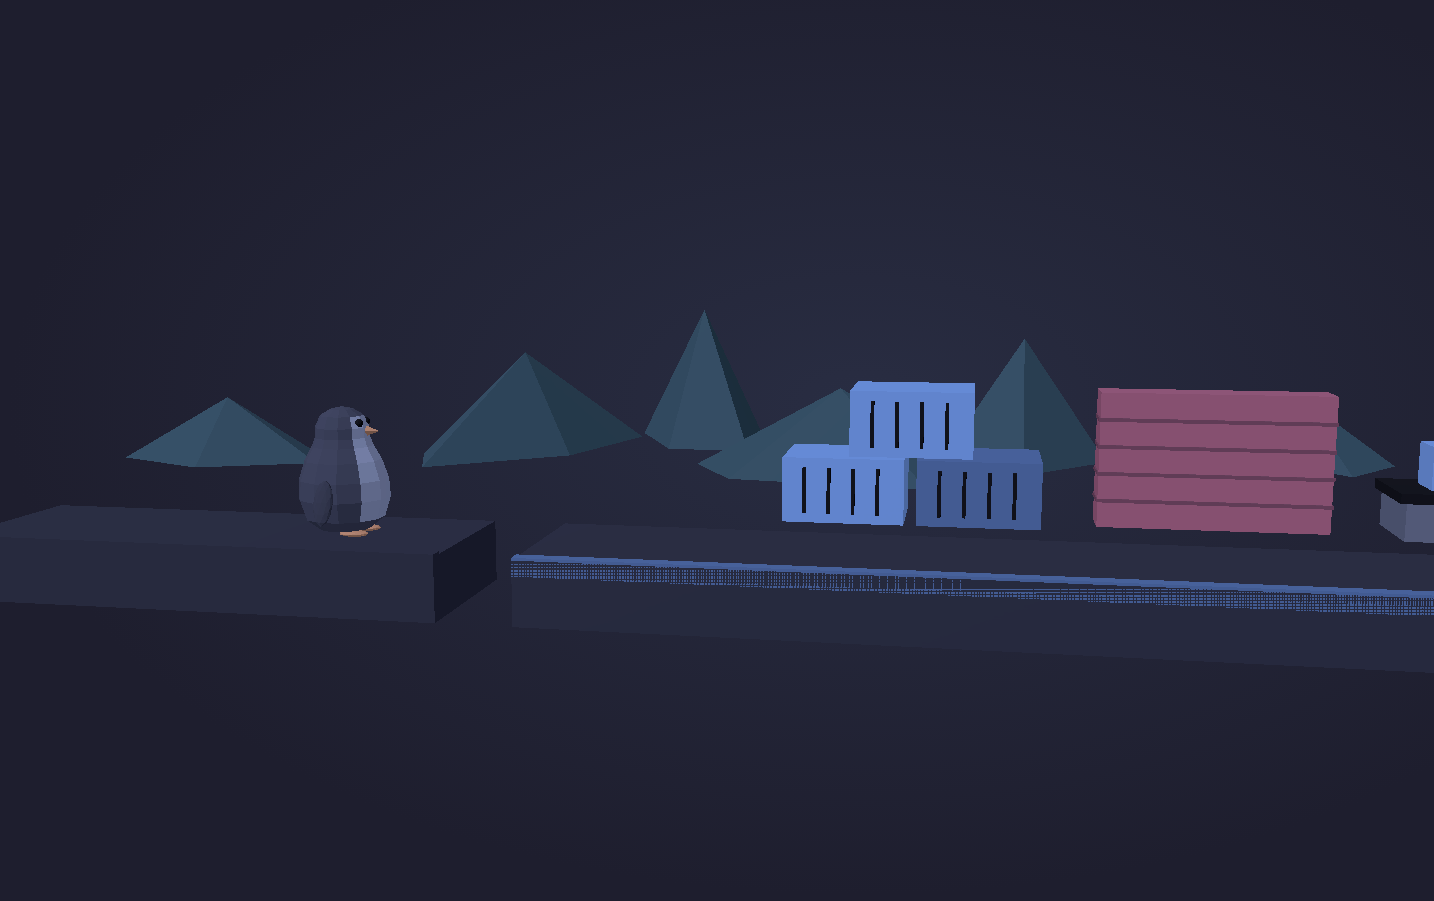
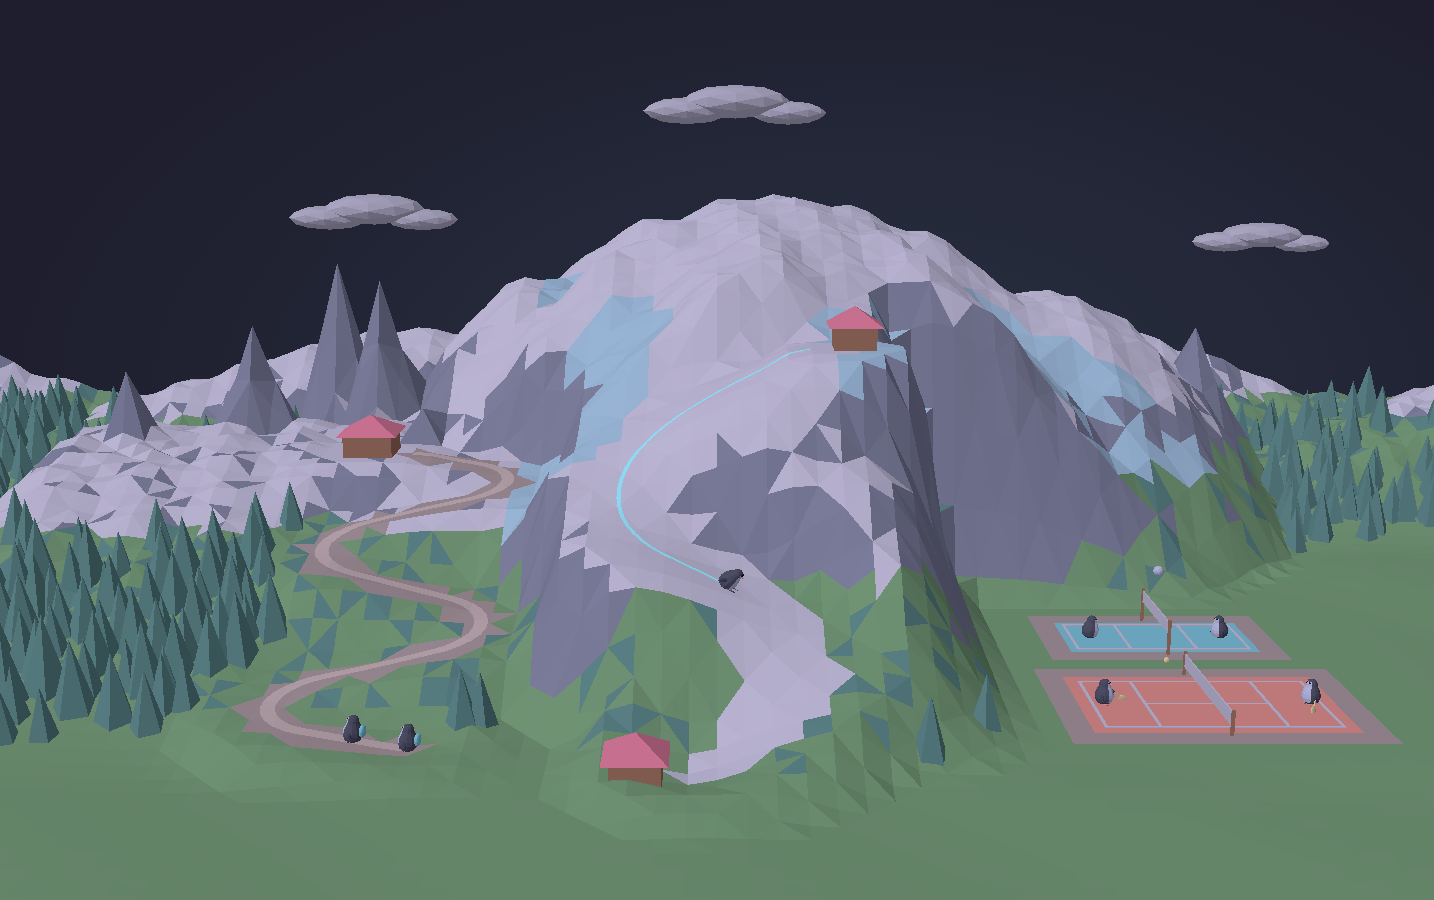
feat: tune the Sport mountain: broad dome, white snow, clouds, framing, posters (PORT-88)

diff --git a/src/scripts/three/scenes/sport.ts b/src/scripts/three/scenes/sport.ts
@@ -5,6 +5,7 @@ import {
   BufferGeometry,
   Color,
   DirectionalLight,
+  Group,
   IcosahedronGeometry,
   type Material,
   Mesh,
@@ -63,6 +64,17 @@ const TENNIS_CONTACT = 0.75;
 const FACE = Math.PI / 2 - 0.45;
 
 const skiTrack = track(PISTE);
+/** Nuvole: x, y, z, grandezza; ogni nuvola e fatta di tre sbuffi (dx, dy, grandezza). */
+const CLOUDS = [
+  [-20, 17, -10, 1],
+  [24, 16, -8, 0.8],
+  [6, 22, -20, 1.2],
+] as const;
+const PUFFS = [
+  [-2.2, 0, 0.8],
+  [0, 0.4, 1],
+  [2.4, -0.1, 0.7],
+] as const;
 
 export function mount({
   canvas,
@@ -92,6 +104,10 @@ export function mount({
   const tint = (names: readonly `--${string}`[]) => new Color(firstToken(container, names));
   const surface = tint(['--surface', '--bg-alt']);
   const text = tint(['--text']);
+  // Luce e neve tra testo (freddo) e rosewater (caldo): insieme la neve sembra bianca.
+  const rosewater = tint(['--ctp-rosewater', '--text']);
+  const light = text.clone().lerp(rosewater, 0.45);
+  const white = text.clone().lerp(rosewater, 0.3);
   const paint = (color: Color, emissive = 0): Material =>
     own(
       new MeshStandardMaterial({
@@ -107,7 +123,7 @@ export function mount({
   const clay = tint(['--ctp-peach', '--text']).lerp(tint(['--ctp-red', '--text']), 0.45);
 
   const { positions, colors } = terrainBuffers({
-    snow: channels(text),
+    snow: channels(white),
     ice: channels(tint(['--ctp-sky', '--text']).lerp(text, 0.55)),
     rock: channels(soft(tint(['--ctp-overlay1', '--ctp-subtext0', '--text']), 0.7)),
     meadow: channels(soft(tint(['--ctp-green', '--text']), 0.55)),
@@ -115,7 +131,7 @@ export function mount({
     soil: channels(soft(tint(['--ctp-rosewater', '--text']), 0.5)),
     clay: channels(clay),
     court: channels(tint(['--sec-sport', '--ctp-blue', '--text'])),
-    line: channels(text),
+    line: channels(white),
     wood: channels(soft(tint(['--ctp-peach', '--text']), 0.45)),
     roof: channels(tint(['--ctp-red', '--text'])),
   });
@@ -175,10 +191,10 @@ export function mount({
   const handle = own(new BoxGeometry(0.05, 0.3, 0.05));
   tennis.forEach((player) => {
     const stick = new Mesh(handle, framePaint);
-    stick.position.y = -0.7;
+    stick.position.y = -0.56;
     const head = new Mesh(pebble, framePaint);
-    head.position.y = -1.0;
-    head.scale.set(0.1, 0.42, 0.34);
+    head.position.y = -0.88;
+    head.scale.set(0.08, 0.4, 0.32);
     player.joints.flipperR.add(stick, head);
   });
   const placeCourt = (players: Penguin[], court: typeof TENNIS, margin: number): void => {
@@ -198,8 +214,23 @@ export function mount({
   const volleyBall = new Mesh(own(new IcosahedronGeometry(0.22, 1)), paint(text));
   scene.add(tennisBall, volleyBall);
 
-  const ambient = new AmbientLight(text, 0.9);
-  const sun = new DirectionalLight(text, 1.7);
+  // Nuvole basse attorno alla vetta: tre sbuffi schiacciati che vanno e vengono piano.
+  const cloudPaint = paint(soft(white, 0.8));
+  const clouds = CLOUDS.map(([x, y, z, s]) => {
+    const cloud = new Group();
+    for (const [dx, dy, k] of PUFFS) {
+      const puff = new Mesh(pebble, cloudPaint);
+      puff.position.set(dx * s, dy * s, 0);
+      puff.scale.set(5 * k * s, 1.5 * k * s, 3 * k * s);
+      cloud.add(puff);
+    }
+    cloud.position.set(x, y, z);
+    scene.add(cloud);
+    return cloud;
+  });
+
+  const ambient = new AmbientLight(light, 1);
+  const sun = new DirectionalLight(light, 2);
   sun.position.set(-30, 40, 30);
   scene.add(ambient, sun);
 
@@ -255,7 +286,7 @@ export function mount({
     );
     tennis.forEach((player, i) => {
       player.setPose('stand');
-      player.joints.flipperR.rotation.x = -1.2 * (rally.swing[i] ?? 0) - 0.3;
+      player.joints.flipperR.rotation.set(-0.8 - 1 * (rally.swing[i] ?? 0), 0, 0.5);
     });
 
     // Pallavolo: il pallone passa sopra la rete, da un bagher all'altro.
@@ -298,6 +329,9 @@ export function mount({
       size.height,
     );
     placeCharacters();
+    clouds.forEach((cloud, i) => {
+      cloud.position.x = (CLOUDS[i]?.[0] ?? 0) + Math.sin(time * 0.05 + i * 2) * 5;
+    });
   };
 
   // --- Ciclo ------------------------------------------------------------------------------------

diff --git a/src/scripts/three/sport/shots.ts b/src/scripts/three/sport/shots.ts
@@ -1,34 +1,36 @@
 import { type Shot, track, trackAt } from './course';
-import { heightAt, TENNIS, TRAIL, VOLLEY } from './terrain';
+import { heightAt, PISTE, TENNIS, TRAIL, VOLLEY } from './terrain';
 
 /*
  * Inquadrature della montagna di Sport (PORT-88), una per momento. Logica pura, senza three.
  */
 
 export const trailTrack = track(TRAIL);
+const skiTrack = track(PISTE);
 
 /** Inquadrature: `portrait` per gli schermi stretti. */
 export const shotsFor = (portrait: boolean): Record<string, Shot> => {
-  const mid = (t: number, height: number): Shot['target'] => {
-    const p = trackAt(trailTrack, t);
+  const on = (path: typeof skiTrack, t: number, height: number): Shot['target'] => {
+    const p = trackAt(path, t);
     return [p.x, heightAt(p.x, p.z) + height, p.z];
   };
   const whole: Shot = {
-    target: [0, 7, -2],
+    // In verticale la montagna scende verso il centro: meno prato vuoto sotto.
+    target: [portrait ? 1 : 0, portrait ? 15 : 7, -2],
     from: [0, 0.22, 1],
     spanH: 24,
-    spanW: portrait ? 42 : 66,
+    spanW: portrait ? 44 : 66,
   };
   return {
     overview: whole,
     ski: {
-      target: [0, heightAt(0, 7) + 1, 7],
-      from: [0.2, 0.4, 1],
-      spanH: 15,
-      spanW: portrait ? 11 : 22,
+      target: on(skiTrack, 0.5, 1),
+      from: [0.12, 0.35, 1],
+      spanH: portrait ? 15 : 22,
+      spanW: portrait ? 21 : 36,
     },
     hiking: {
-      target: mid(0.5, 1),
+      target: on(trailTrack, 0.5, 1),
       from: [-0.45, 0.35, 1],
       spanH: 13,
       spanW: portrait ? 10 : 20,
@@ -37,13 +39,13 @@ export const shotsFor = (portrait: boolean): Record<string, Shot> => {
       target: [TENNIS.x, 0.5, TENNIS.z],
       from: [-0.15, 0.7, 1],
       spanH: 9,
-      spanW: portrait ? 13 : 18,
+      spanW: portrait ? 14 : 22,
     },
     volleyball: {
       target: [VOLLEY.x, 0.5, VOLLEY.z],
       from: [0.15, 0.7, 1],
       spanH: 8,
-      spanW: portrait ? 11 : 16,
+      spanW: portrait ? 12 : 18,
     },
     exit: whole,
   };

diff --git a/src/scripts/three/sport/terrain.ts b/src/scripts/three/sport/terrain.ts
@@ -56,7 +56,7 @@ const hash = (i: number, j: number): number => {
  * Gouter a destra.
  */
 const DOMES = [
-  [3, -16, 19, 36, 13, 17.5, 1.3],
+  [3, -16, 23, 36, 13, 17.5, 1.15],
   [-9, -14, 11, 17, 12, 13.5, 1.3],
   [17, -16, 14, 15, 12, 12.5, 1.1],
 ] as const;
@@ -415,7 +415,7 @@ export function terrainBuffers(pal: TerrainPalette): {
     else if (mean(dt) < 0.9) c = pal.soil;
     else if (up < 0.5 && y > 1.5) c = pal.rock;
     else if (y > 7 + salt) {
-      c = up < 0.62 && y < 14.5 ? pal.rock : glacier(cx, cz, y) ? pal.ice : pal.snow;
+      c = up < 0.62 && y < 11 ? pal.rock : glacier(cx, cz, y) ? pal.ice : pal.snow;
     } else if (y > 3.5 && up > 0.62 && glacier(cx, cz, y)) c = pal.ice;
     else if (y > 5) c = up < 0.7 || salt < 0.1 ? pal.rock : pal.snow;
     else c = y > 1 && salt < 0.22 ? pal.forest : pal.meadow;

diff --git a/PORTFOLIO_SPEC.md b/PORTFOLIO_SPEC.md
@@ -90,7 +90,7 @@ Valori gzip, controllati a ogni build da `pnpm check:budget` (`scripts/budget.ts
 | `/recruiter`, `/agent` (primo caricamento / JS) | 15 KB / 0 | ~6 KB / 0 |
 | `/human` primo caricamento, **senza 3D** / JS | 32 KB / 6 KB | ~16 KB / 2,8 KB |
 | `three` (chunk unico, solo su `/human`, solo vicino a una scena) | 144 KB (da 140 in PORT-81, deciso da Alessandro) | ~140 KB |
-| ogni scena (Homelab / Domotica / Lavori / Certificazioni) | 16 KB | 6,2 / 5,1 / 3,3 / 2,6 KB |
+| ogni scena (Homelab / Domotica / Lavori / Certificazioni / Sport) | 16 KB | 6,2 / 5,1 / 3,3 / 2,6 / 6,4 KB |
 | codice condiviso delle scene (orbit, pannello, token, pinguino, inquadrature) | 4 KB | 1,5 / 1,5 KB (pannello / pinguino) |
 | bootstrap 3D / barra del tempo / terminale | 4,5 / 2 / 2 KB | 4,1 / 0,7 / 1,3 KB |
 
